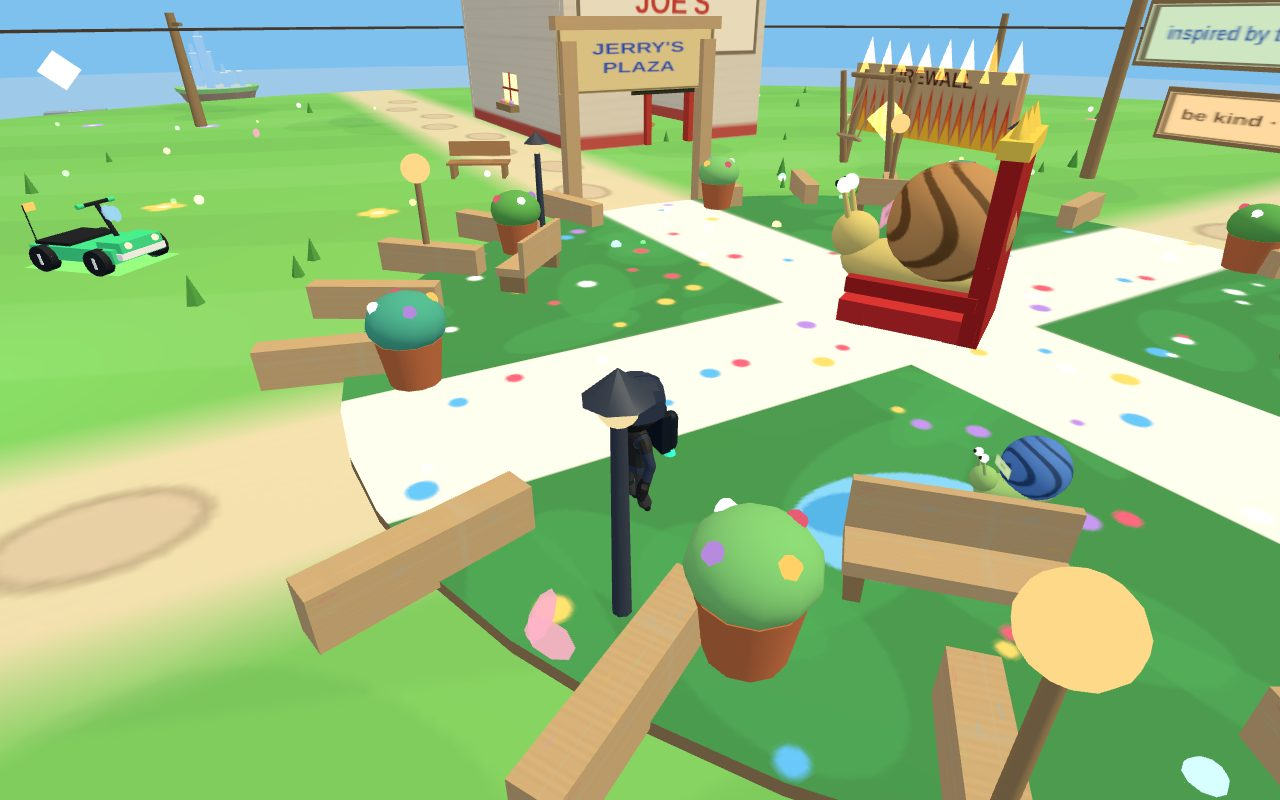
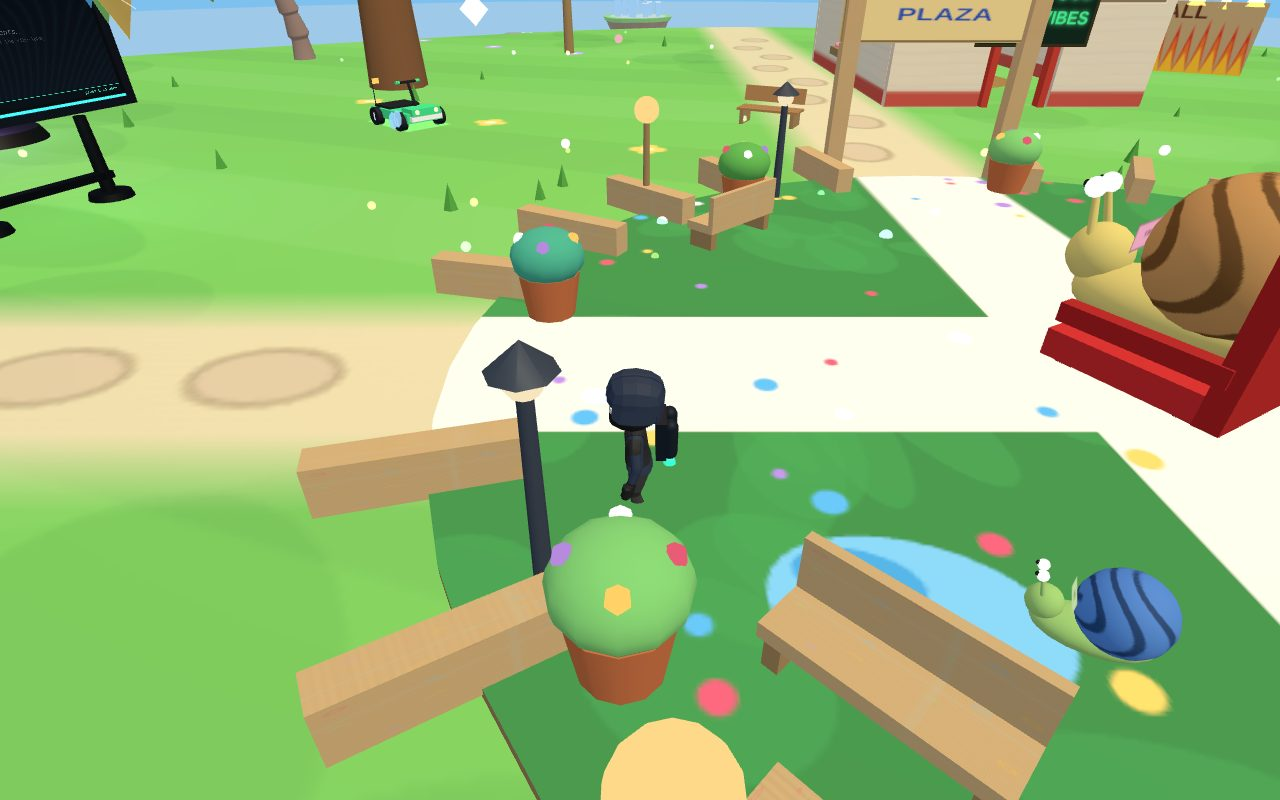
Vibe Island town plan: open plaza, everything anchored on the ring
The island layout is now a deliberate town plan instead of a pile-up.
Jerry's plaza (throne, benches, pond) keeps the heart of the island to
itself; everything else moved out to districts around the ring road,
entrances facing in:

- North rim: the God Orb relocates from the middle of THE PALACE
  courtyard (it sat on top of the show board) to the end of the north
  path — a mystic beacon framed by the welcome arch sightline. Its
  collision boxes also actually work now (height was written as a
  thickness, so you could walk through the struts).
- NE: Ninja's Palace + courtyard, windmill behind them on the rim
  (it used to spin at the plaza's edge).
- SE hangout corner: SnackFe + Vibe Shop pushed out to the ring, with
  the arcade cabinet and VIBE TV joining them near the spring pool.
- SW: Dream Tree corner (sign turned toward the plaza), vibe kart
  parked by the path, Vibe Maker portal on the south ring, roster
  terminal just outside the plaza.
- West rim: Trader Joe's stays; the avatar portal moves OUT of TJ's
  interior (the craft pass gave TJ real walls and the portal was
  literally stuck inside) to the ring south of it; the firewall burns
  as rim art north of TJ, facing in.
- NW rim: the swing, turned to face the open ocean.

Postcard backplates reshot to match the new layout.

https://claude.ai/code/session_012T4pxMwMUcdR7RHfvuYp34

diff --git a/src/components/city/cardboardIsland.ts b/src/components/city/cardboardIsland.ts
@@ -885,10 +885,12 @@ export function buildCardboardIsland(opts: {
   // ---- Dream Tree --------------------------------------------------
   // Moved off the plaza so it no longer crowds the spawn camera; tucked
   // into the NE lawn between the welcome path and the snack stand.
-  const TREE_X = -14;
-  const TREE_Z = 26;
+  // Town plan: the Dream Tree anchors the SW corner of the ring.
+  const TREE_X = -28;
+  const TREE_Z = 20;
   const tree = new THREE.Group();
   tree.position.set(TREE_X, 0, TREE_Z);
+  tree.rotation.y = Math.atan2(-TREE_X, -TREE_Z); // sign faces the plaza
   const trunk = new THREE.Mesh(
     new THREE.CylinderGeometry(0.9, 1.4, 9, 10),
     new THREE.MeshStandardMaterial({ color: "#7a5230", roughness: 0.9 }),
@@ -1021,7 +1023,11 @@ export function buildCardboardIsland(opts: {
 
   // ---- Windmill ----------------------------------------------------
   const mill = new THREE.Group();
-  mill.position.set(14, 0, 2);
+  // Town plan: the windmill is a NE-rim landmark behind Ninja's Palace
+  // now — it used to spin right at the plaza's edge.
+  const MILL_X = 40;
+  const MILL_Z = -26;
+  mill.position.set(MILL_X, 0, MILL_Z);
   const towerH = 15;
   const tower = new THREE.Mesh(new THREE.BoxGeometry(4.5, towerH, 4.5), cardboardMat);
   tower.position.y = towerH / 2;
@@ -1044,8 +1050,8 @@ export function buildCardboardIsland(opts: {
   spinners.push(hub);
   group.add(mill);
   boxes.push({
-    minX: centerX + 14 - 2.25, maxX: centerX + 14 + 2.25,
-    minZ: centerZ + 2 - 2.25, maxZ: centerZ + 2 + 2.25,
+    minX: centerX + MILL_X - 2.25, maxX: centerX + MILL_X + 2.25,
+    minZ: centerZ + MILL_Z - 2.25, maxZ: centerZ + MILL_Z + 2.25,
     base: topY,
     height: topY + towerH,
   });
@@ -1101,7 +1107,10 @@ export function buildCardboardIsland(opts: {
   // across the top and a row of flickering flame cones along the edge.
   // No collision — you're meant to jetpack straight through it.
   const firewall = new THREE.Group();
-  firewall.position.set(-17, 0, -20);
+  // Town plan: the firewall burns on the west ring north of Trader
+  // Joe's, facing the plaza — rim art instead of mid-lawn clutter.
+  firewall.position.set(-34, 0, -20);
+  firewall.rotation.y = Math.atan2(34, 20);
   {
     const tex = (() => {
       const c = document.createElement("canvas");
@@ -1155,8 +1164,13 @@ export function buildCardboardIsland(opts: {
   group.add(firewall);
 
   // ---- The swing -------------------------------------------------------
+  // Town plan: the swing lives on the NW rim now, turned to face the
+  // open ocean — swinging out over the edge of the world.
+  const SWING_X = -30;
+  const SWING_Z = -28;
   const swing = new THREE.Group();
-  swing.position.set(-13, 0, -12);
+  swing.position.set(SWING_X, 0, SWING_Z);
+  swing.rotation.y = Math.atan2(SWING_X, SWING_Z); // face outward, away from the plaza
   {
     const legGeo = new THREE.CylinderGeometry(0.12, 0.16, 3.8, 8);
     [-1.3, 1.3].forEach((x) => {
@@ -1637,9 +1651,13 @@ export function buildCardboardIsland(opts: {
   const jerryParts = { stalks: allStalks };
 
   // ---- Cardboard TV: the island photo gallery ---------------------------
+  // Town plan: the TV sits on the east ring by the spring pool, part
+  // of the SE hangout corner (it used to crowd the plaza lawn).
+  const TV_X = 30;
+  const TV_Z = 22;
   const tv = new THREE.Group();
-  tv.position.set(18, 0, 22);
-  tv.rotation.y = Math.atan2(0 - 18, 0 - 22); // screen faces the plaza center
+  tv.position.set(TV_X, 0, TV_Z);
+  tv.rotation.y = Math.atan2(0 - TV_X, 0 - TV_Z); // screen faces the plaza center
   const tvTextures: THREE.Texture[] = [];
   let tvIndex = 0;
   let tvTimer = 0;
@@ -1690,13 +1708,13 @@ export function buildCardboardIsland(opts: {
   }
   group.add(tv);
 
-  // ---- Vibe Shop: a modern neon kiosk tucked behind the TV ------------
+  // ---- Vibe Shop: a modern neon kiosk on the south ring ---------------
   // Sleek dark counter with mint signage. Player walks up to it from
   // the back-island side; proximity opens the shop dialog in /city.
   // Sits just to the right of SnackFae (from a player approaching the counter)
   // so you can see both at once when you walk up to grab a snack.
-  const SHOP_X = 2;
-  const SHOP_Z = 28;
+  const SHOP_X = 5;
+  const SHOP_Z = 35;
   {
     const shopGroup = new THREE.Group();
     shopGroup.position.set(SHOP_X, 0, SHOP_Z);
@@ -1836,8 +1854,9 @@ export function buildCardboardIsland(opts: {
   // Walk up to it to open a mini "vibe coding" panel that spawns 3D
   // primitives saved to public.island_spawns. Everyone on the island
   // sees what you make; only you can delete your own creations.
-  const PORTAL_X = -10;
-  const PORTAL_Z = 26;
+  // Town plan: south ring, clear of the shop pair.
+  const PORTAL_X = -16;
+  const PORTAL_Z = 31;
   const portalGroup = new THREE.Group();
   portalGroup.position.set(PORTAL_X, 0, PORTAL_Z);
   {
@@ -1921,8 +1940,11 @@ export function buildCardboardIsland(opts: {
   // character picker. Sits on the opposite side of the Vibe Shop from
   // the Vibe Maker so the three form a little plaza row.
   // Perched on the roof of Trader Joe's (see SHOPS[0] at x=-30, z=-8, h=9).
-  const AVATAR_X = -30;
-  const AVATAR_Z = -8;
+  // Town plan: out of Trader Joe's interior (the craft pass gave TJ
+  // real walls and this portal ended up literally inside the shop) and
+  // onto the west ring south of it, beam visible from the plaza.
+  const AVATAR_X = -34;
+  const AVATAR_Z = 10;
   const AVATAR_Y = 9; // Trader Joe's roof height (matches SHOPS[0].h)
   const avatarPortalGroup = new THREE.Group();
   avatarPortalGroup.position.set(AVATAR_X, AVATAR_Y, AVATAR_Z);
@@ -2108,8 +2130,9 @@ export function buildCardboardIsland(opts: {
   // tucked on the island plaza. Walk up to launch the embedded game
   // (which lives in its own Lovable project) in a fullscreen modal.
   // ------------------------------------------------------------------
-  const ARCADE_X = 18;
-  const ARCADE_Z = 14;
+  // Town plan: the arcade joins the SE hangout corner with SnackFe.
+  const ARCADE_X = 26;
+  const ARCADE_Z = 28;
   const arcadeGroup = new THREE.Group();
   arcadeGroup.position.set(ARCADE_X, 0, ARCADE_Z);
   arcadeGroup.rotation.y = -Math.PI / 5;
@@ -2241,8 +2264,9 @@ export function buildCardboardIsland(opts: {
   // ---- SnackFe: modern neon cafe ---------------------------------------
   // A sleek modern micro-cafe with alternating mint/magenta string lights
   // along the front awning. Walk up to it to order a snack.
-  const SNACK_X = 12;
-  const SNACK_Z = 28;
+  // Town plan: pushed out to the SE ring so the mid-lawn stays open.
+  const SNACK_X = 16;
+  const SNACK_Z = 33;
   const SNACK_W = 9;
   const SNACK_D = 6;
   const SNACK_H = 4.4;
@@ -2684,12 +2708,14 @@ export function buildCardboardIsland(opts: {
 
   // ------------------------------------------------------------------
   // GOD ORB GENERATOR + TWINKLE LIGHTS
-  // A mysterious glowing box tucked between Ninja's Palace (x=26,z=-18)
-  // and the Wish Wall (x=-4,z=-32). It "powers" a constellation of
-  // twinkle lights scattered across the island lawn.
+  // A mysterious glowing dome at the island's north rim. It "powers" a
+  // constellation of twinkle lights scattered across the island lawn.
   // ------------------------------------------------------------------
-  const GEN_X = 12;
-  const GEN_Z = -26;
+  // Town plan: the orb anchors the NORTH RIM at the end of the north
+  // path — a mystic beacon framed by the welcome arch sightline. (It
+  // used to sit in the middle of THE PALACE courtyard.)
+  const GEN_X = 6;
+  const GEN_Z = -36;
   const generatorGroup = new THREE.Group();
   generatorGroup.position.set(GEN_X, 0, GEN_Z);
   group.add(generatorGroup);
@@ -2900,7 +2926,7 @@ export function buildCardboardIsland(opts: {
       maxX: centerX + GEN_X + Math.max(x0, x1) + 0.1,
       minZ: centerZ + GEN_Z + Math.min(z0, z1) - 0.1,
       maxZ: centerZ + GEN_Z + Math.max(z0, z1) + 0.1,
-      base: topY, height: 0.8,
+      base: topY, height: topY + 0.8,
     });
   }
 
@@ -3104,7 +3130,8 @@ export function buildCardboardIsland(opts: {
     zipline: { x: centerX, z: centerZ, y: topY + ZIP_HEIGHT, radius: ZIP_RADIUS },
     jerry: new THREE.Vector3(centerX, topY, centerZ),
     snackfe: new THREE.Vector3(centerX + SNACK_X, topY, centerZ + SNACK_Z - SNACK_D / 2 - 1.4),
-    swingMount: new THREE.Vector3(centerX + -13, topY, centerZ + -12 + 2.5),
+    // Mount point sits on the plaza side of the (outward-facing) swing.
+    swingMount: new THREE.Vector3(centerX + SWING_X + 1.8, topY, centerZ + SWING_Z + 1.7),
     swingSeat: swingSeatMarker,
     swingAngle: () => currentSwingAngle,
     shop: new THREE.Vector3(centerX + SHOP_X, topY, centerZ + SHOP_Z - 2.3),
@@ -3112,7 +3139,7 @@ export function buildCardboardIsland(opts: {
     avatarPortal: new THREE.Vector3(centerX + AVATAR_X, topY + AVATAR_Y, centerZ + AVATAR_Z),
     avatarStage,
     arcade: new THREE.Vector3(centerX + ARCADE_X, topY, centerZ + ARCADE_Z),
-    tv: new THREE.Vector3(centerX + 18, topY, centerZ + 22),
+    tv: new THREE.Vector3(centerX + TV_X, topY, centerZ + TV_Z),
     setTvPhotos(urls) {
       const loader2 = new THREE.TextureLoader();
       loader2.setCrossOrigin("anonymous");

diff --git a/src/pages/City.tsx b/src/pages/City.tsx
@@ -1692,7 +1692,7 @@ export default function City() {
     // yes, you can drive straight off the island rim).
     const kartStates = [
       { x: 10, y: 0, z: 20, yaw: Math.PI * 0.75, speed: 0, vy: 0, steer: 0, mesh: buildKart("#ff6b6b") },
-      { x: ISLAND_X - 13, y: ISLAND_TOP, z: ISLAND_Z + 15, yaw: 2.4, speed: 0, vy: 0, steer: 0, mesh: buildKart("#46e88c") },
+      { x: ISLAND_X - 19, y: ISLAND_TOP, z: ISLAND_Z + 17, yaw: 2.4, speed: 0, vy: 0, steer: 0, mesh: buildKart("#46e88c") },
     ];
     for (const k of kartStates) {
       k.mesh.group.position.set(k.x, k.y, k.z);
@@ -1981,8 +1981,9 @@ export default function City() {
     // Clicking it opens a fuller modal with the same list.
     // Moved further to the right (toward island center / Trader Joe's) so
     // the board has clear space on the plaza edge.
-    const ROSTER_LX = -6;
-    const ROSTER_LZ = 18;
+    // Town plan: just outside the plaza on the south path's west side.
+    const ROSTER_LX = -8;
+    const ROSTER_LZ = 23;
     const rosterBoard = createAgentRosterBoard({
       position: new THREE.Vector3(ISLAND_X + ROSTER_LX, ISLAND_TOP, ISLAND_Z + ROSTER_LZ),
       rotationY: Math.atan2(-ROSTER_LX, -ROSTER_LZ), // face the island center
